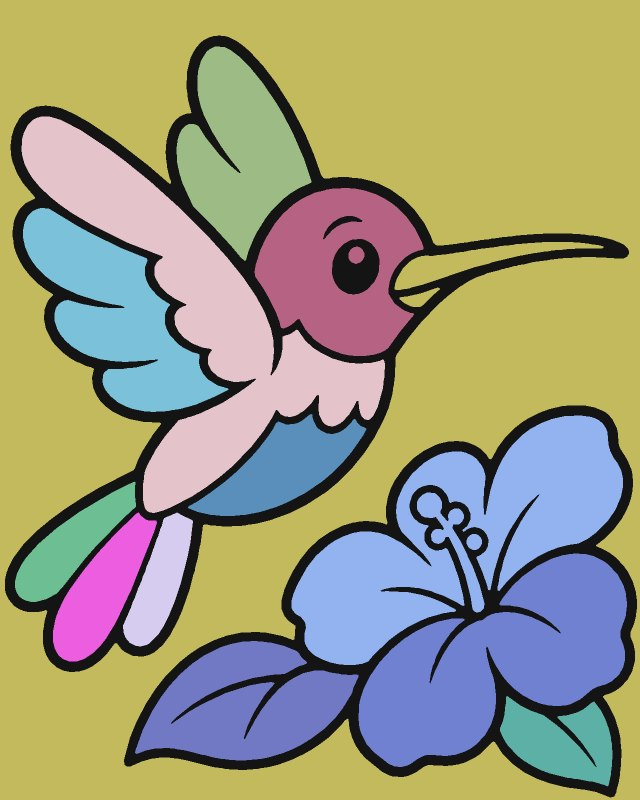
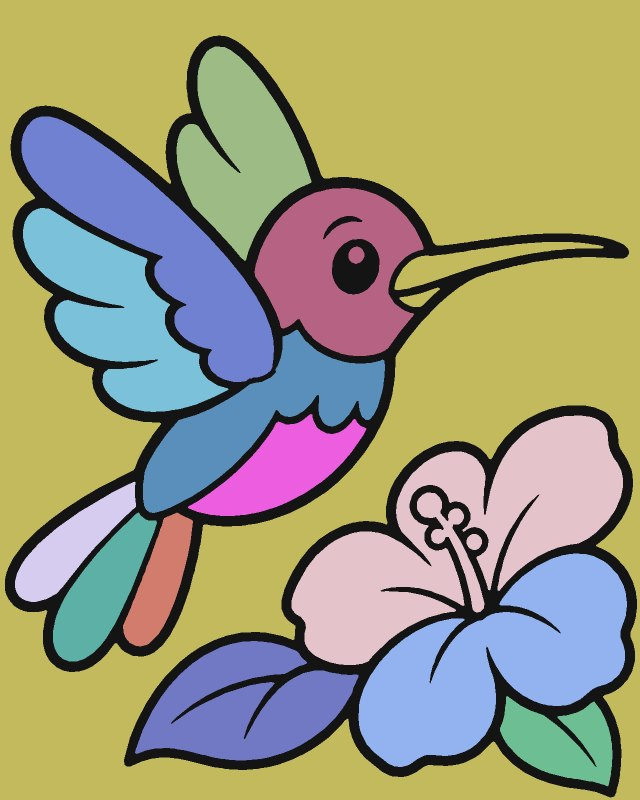
fix: cerrar el contorno del ala en E03

Changed region(s): [[0.4375, 0.5, 1.0, 0.9688], [0.0, 0.125, 0.625, 0.8438]]

diff --git a/tool/laminas/convertir.py b/tool/laminas/convertir.py
@@ -66,7 +66,7 @@ PAGINAS_PREVIAS = {'E01': ('rana-en-la-hoja', 2), 'M06': ('quetzal', 2),
 def pagina_de(art_id, tema_id):
     if art_id in PAGINAS_PREVIAS:
         return PAGINAS_PREVIAS[art_id]
-    return f'{art_id.lower()}-{tema_id}', 1
+    return f'{art_id.lower()}-{tema_id}', 2 if art_id == 'E03' else 1
 
 
 def leer_gris(ruta):

diff --git a/tool/laminas/manifiesto.py b/tool/laminas/manifiesto.py
@@ -86,6 +86,7 @@ TEMAS = [
 
 # Plantillas anteriores de las páginas que ya existían.
 PREVIAS = {
+    'e03-colibri': {'1': 'pages/e03-colibri-v1.json'},
     'rana-en-la-hoja': {'1': 'pages/rana-en-la-hoja-v1.json'},
     'quetzal': {'1': 'pages/quetzal-v1.json'},
     'sendero': {'1': 'pages/sendero-v1.json'},

diff --git a/docs/laminas/REGISTRO_CAMBIOS.md b/docs/laminas/REGISTRO_CAMBIOS.md
@@ -18,11 +18,12 @@ Todas las láminas se normalizan a 1600 px de lado mayor y se vectorizan; debajo
 - huecos de trazo cerrados (185 px)
 - 3 zonas pequeñas agrupadas con su vecina
 
-## E03 · `e03-colibri` (revisión 1)
+## E03 · `e03-colibri` (revisión 2)
 
 - Original: `Colibrí y flor de hibisco-2.webp` → `E03_colibri.webp` (1122 × 1402 px), SHA-256 `6238da7b408ee556…`
+- Fuente corregida: `tool/laminas/fuentes_corregidas/E03.png`. Se unieron los dos extremos del trazo en la base del ala delantera, donde el relleno pasaba al pecho.
 - Lienzo: 1280 × 1600 (vertical); trazo 19.6 px; tinta que toca el marco: 0.0 %
-- huecos de trazo cerrados (351 px)
+- huecos de trazo cerrados (352 px)
 - 5 zonas pequeñas agrupadas con su vecina
 
 ## E04 · `e04-tucan` (revisión 1)
